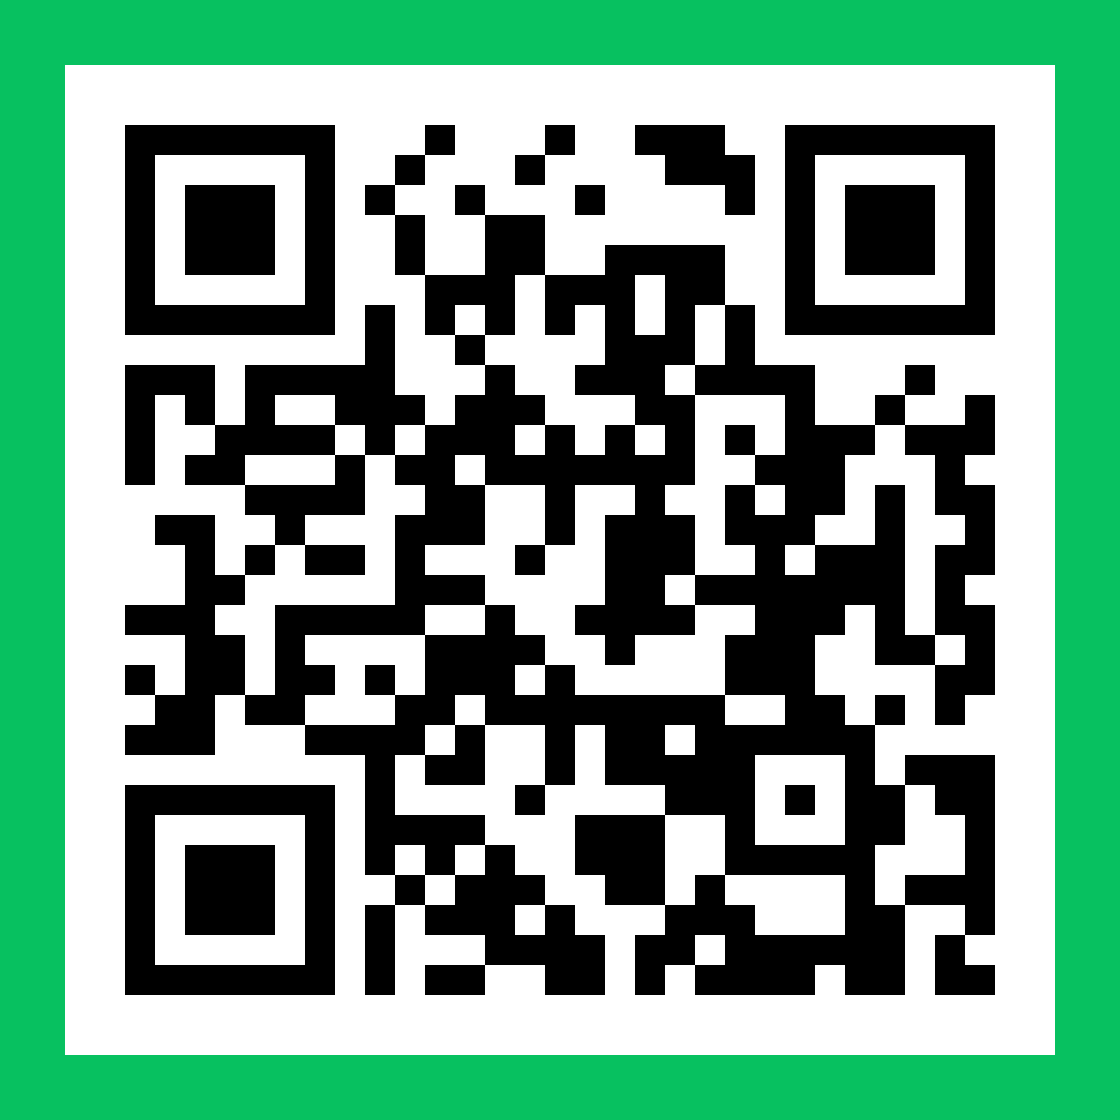
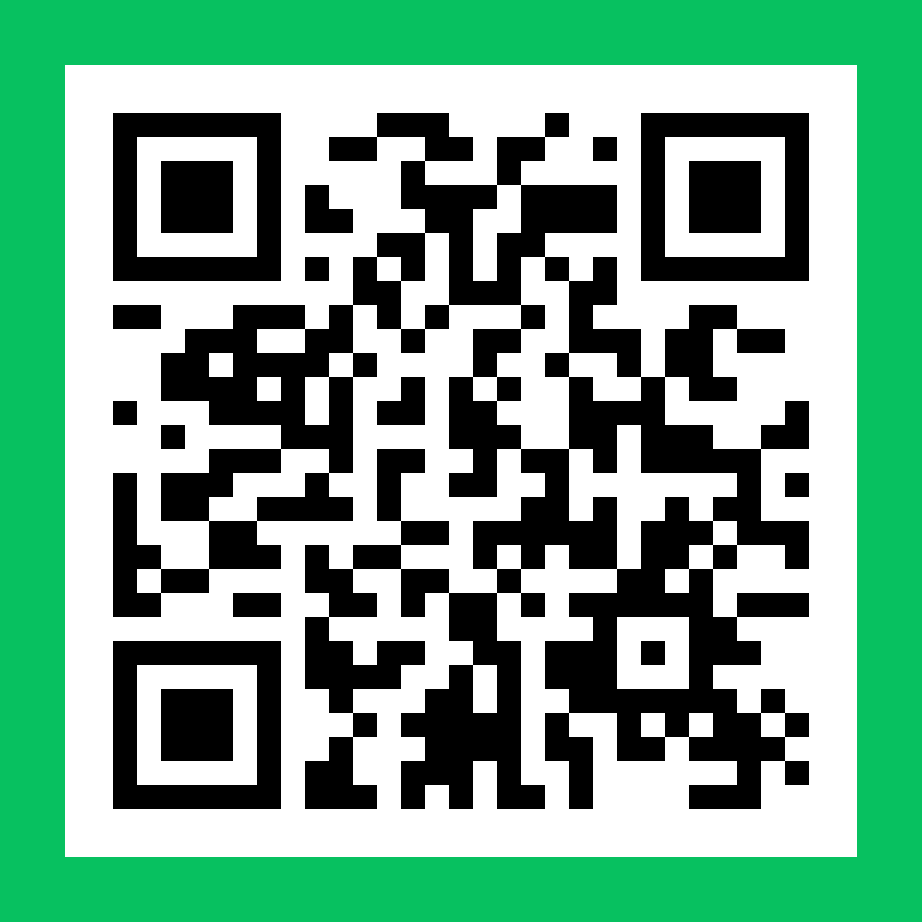
Bust cached entry page version

diff --git a/README.md b/README.md
@@ -19,4 +19,4 @@
 
 ## 固定入口二维码
 
-启用 GitHub Pages 后，本页面的固定地址为 `https://22yqr.github.io/qr-payment/`。入口二维码图片保存为 `assets/entry-qr.png`，可下载、打印或转发给客户；客户扫码后会先进入本说明页，再识别其中的个人微信收款码。
+启用 GitHub Pages 后，本页面地址为 `https://22yqr.github.io/qr-payment/`。入口二维码图片保存为 `assets/entry-qr.png`，可下载、打印或转发给客户；该二维码附带版本参数，以避免微信继续使用旧页面缓存。客户扫码后会先进入本说明页，再识别其中的个人微信收款码。
